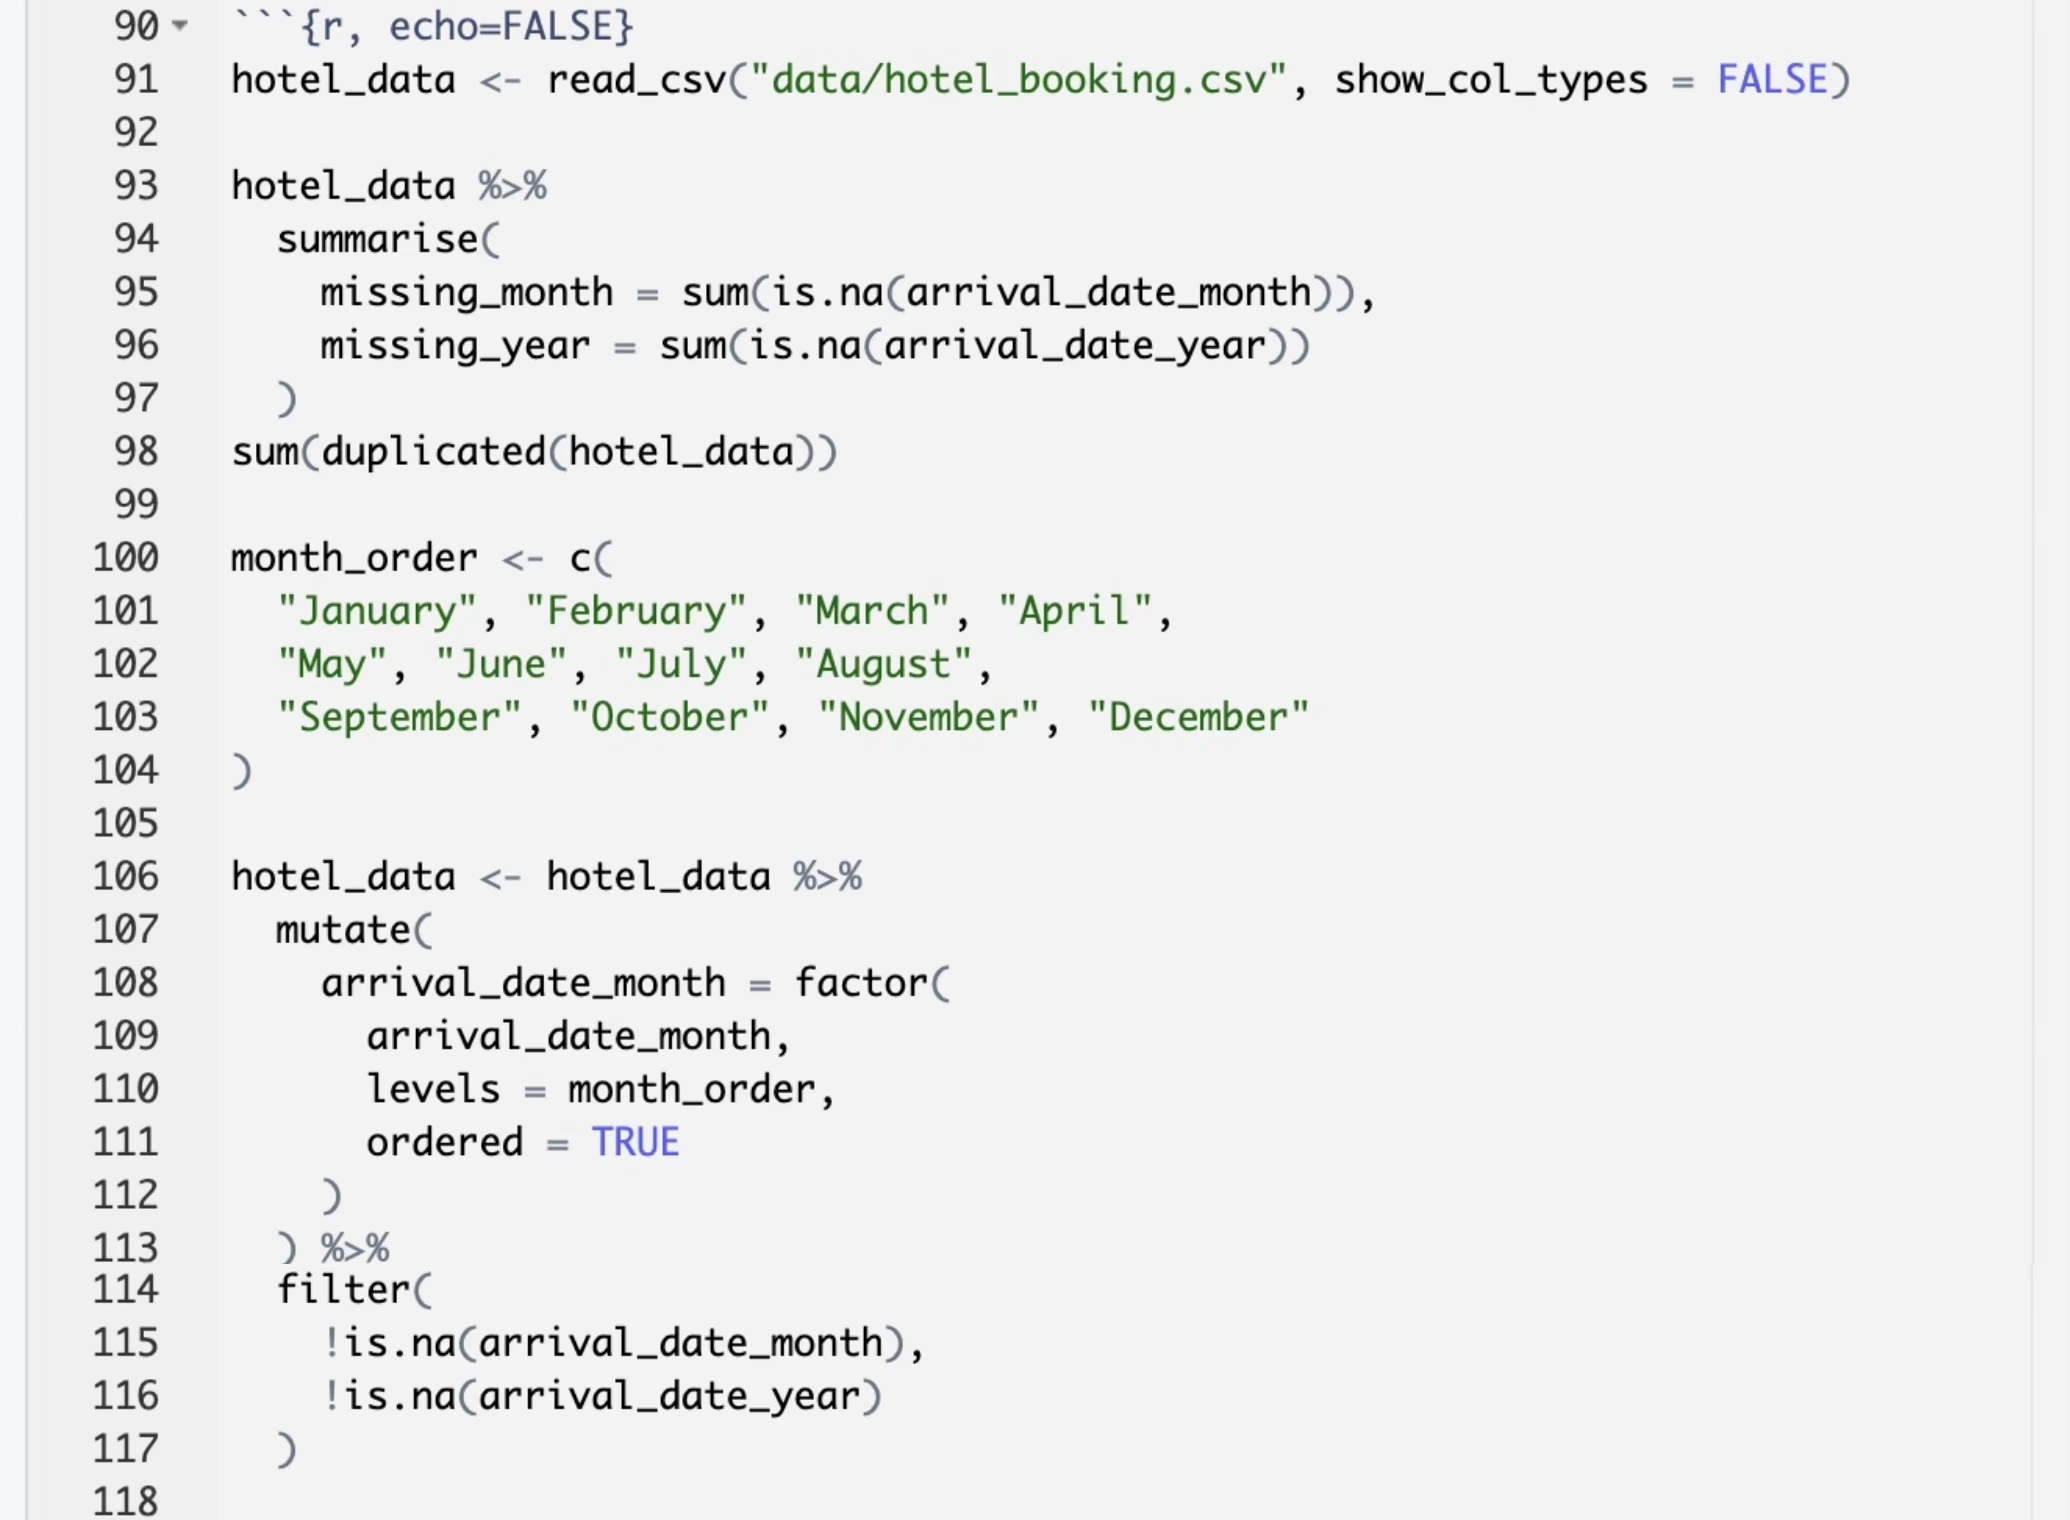
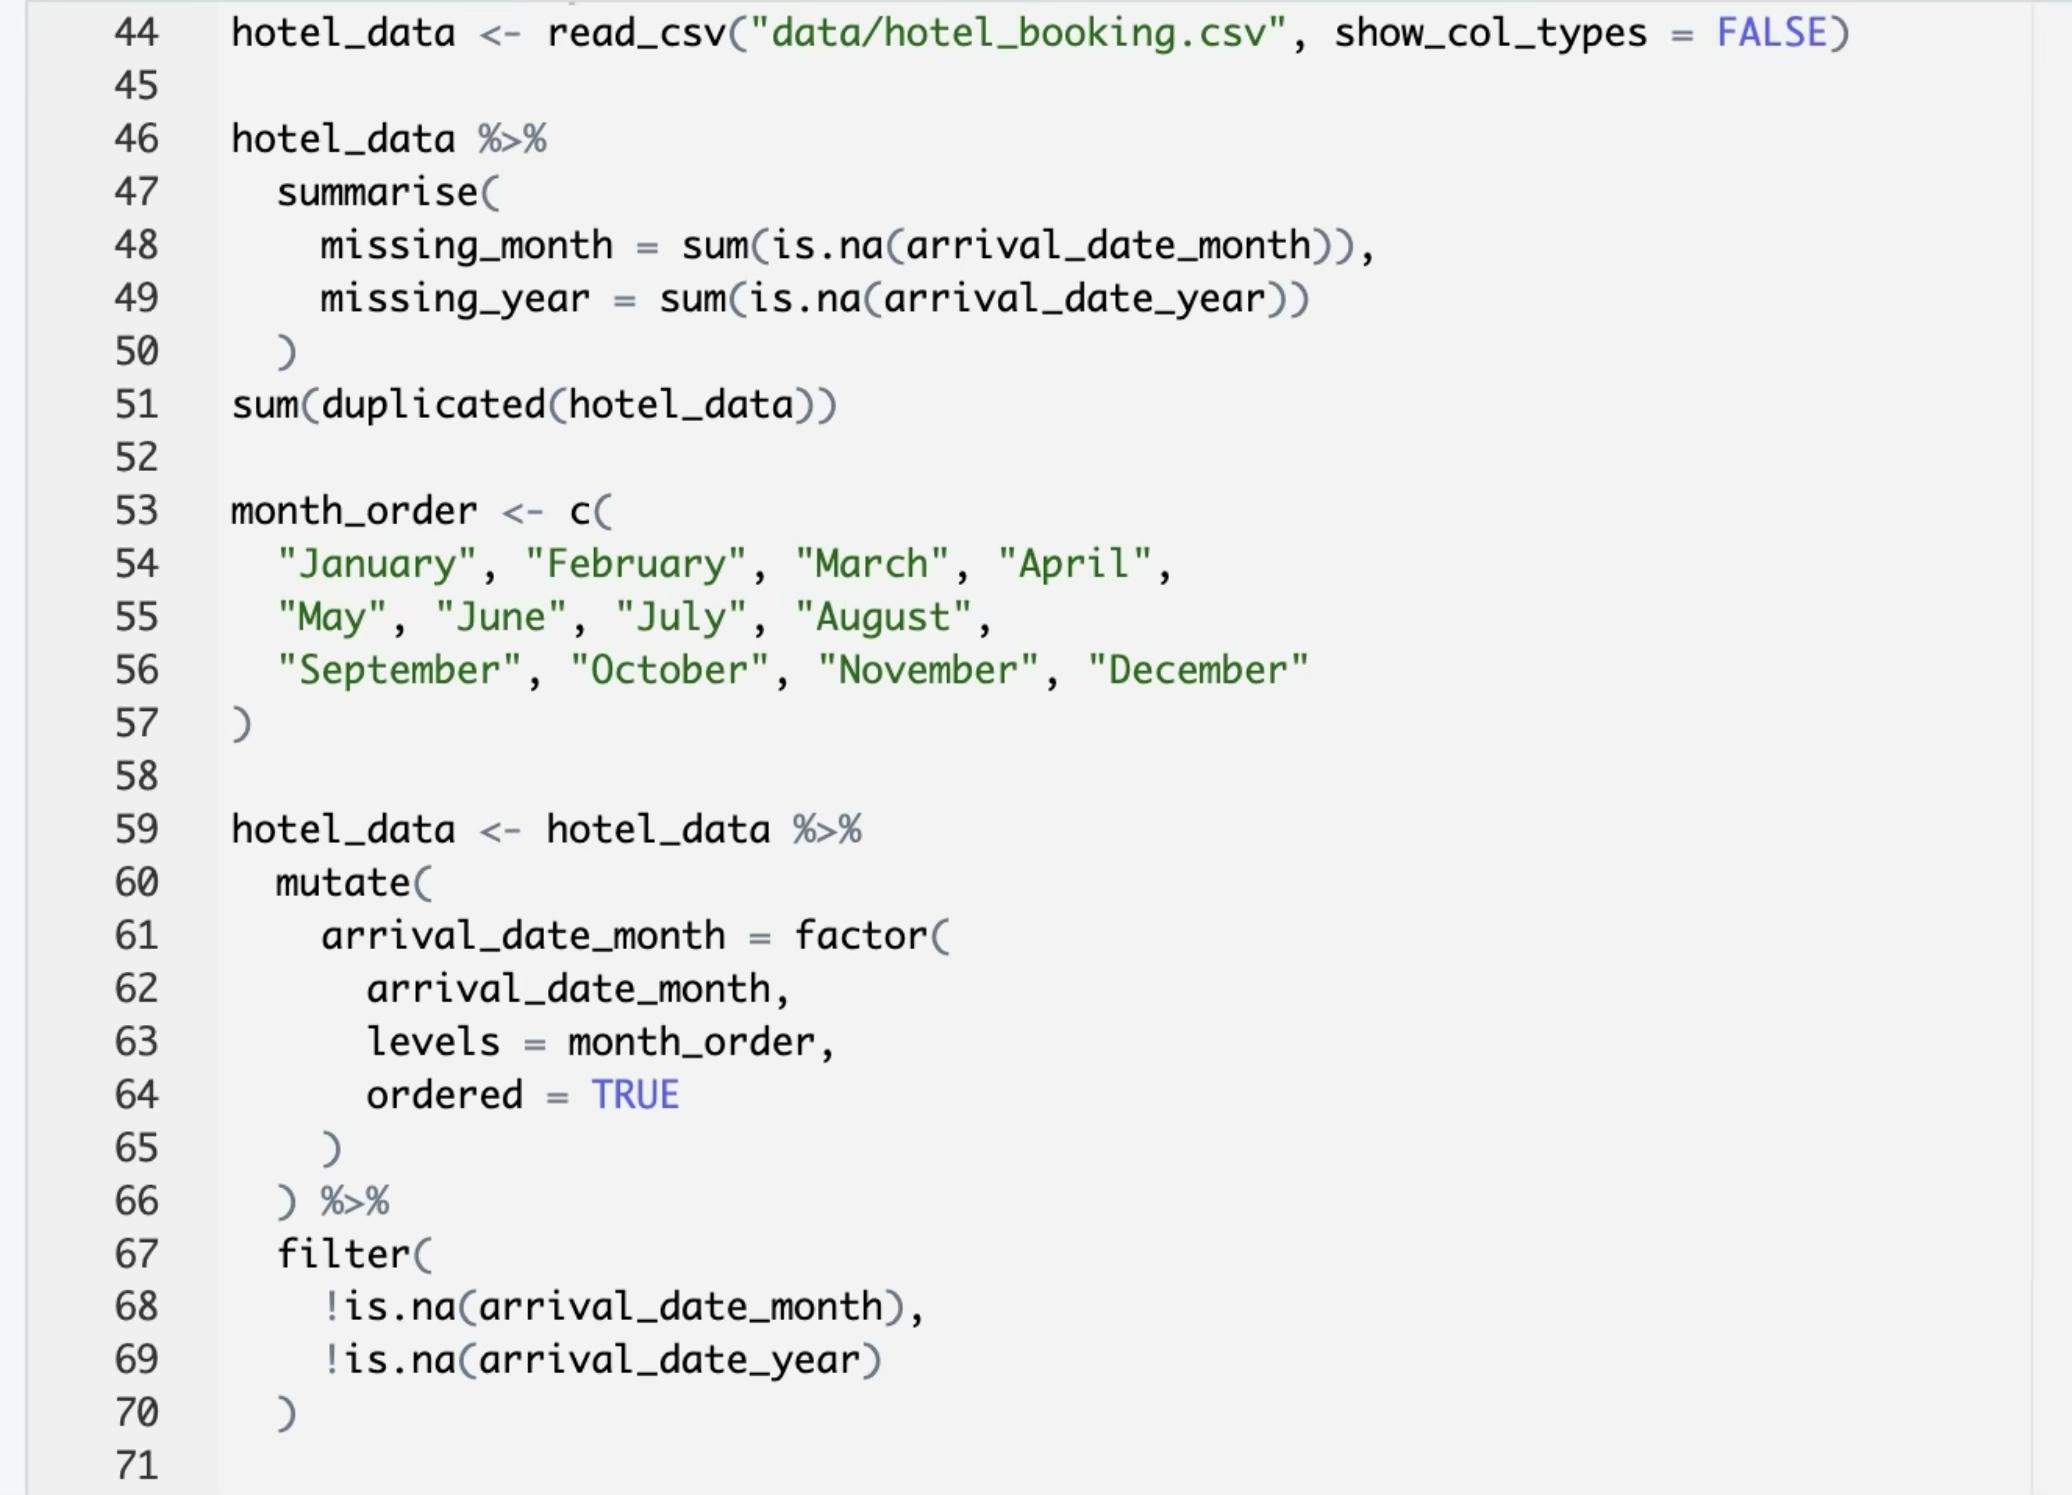
change part1 2.0

Changed region(s): [[0.0309, 0.0, 0.8966, 1.0], [0.5256, 0.4308, 0.6184, 0.4923]]

diff --git a/presentation.html b/presentation.html
@@ -4,7 +4,7 @@
     <title>Factors effect hotel booking demand</title>
     <meta charset="utf-8" />
     <meta name="author" content="ABCDE: Ziming Lei, Yi Wei, Ruijing Jiang, Yutong Zhu, Laurence Yao" />
-    <meta name="date" content="2026-11-26" />
+    <meta name="date" content="2026-11-27" />
     <script src="libs/header-attrs-2.32/header-attrs.js"></script>
     <link rel="stylesheet" href="xaringan-themer.css" type="text/css" />
   </head>
@@ -22,7 +22,7 @@ class: center, middle, inverse, title-slide
 ### University of Edinburgh
 ]
 .date[
-### 2026-11-26
+### 2026-11-27
 ]
 
 ---
@@ -79,13 +79,7 @@ In this project, we use the Hotel Booking Demand dataset to explore the factors 
 
 # Part 1: Monthly Arrival Trends
 
-.pull-left[
 &lt;img src="img/part1.3.jpg" width: 100%&gt;
-]
-
-.pull-right[
-&lt;img src="img/part1.4.jpg" width="100%"&gt;
-]
 
 ---
 
